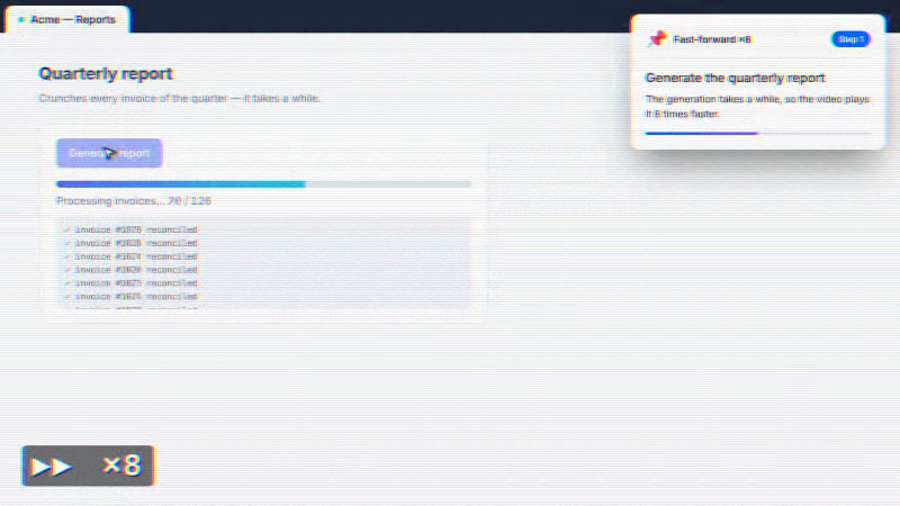
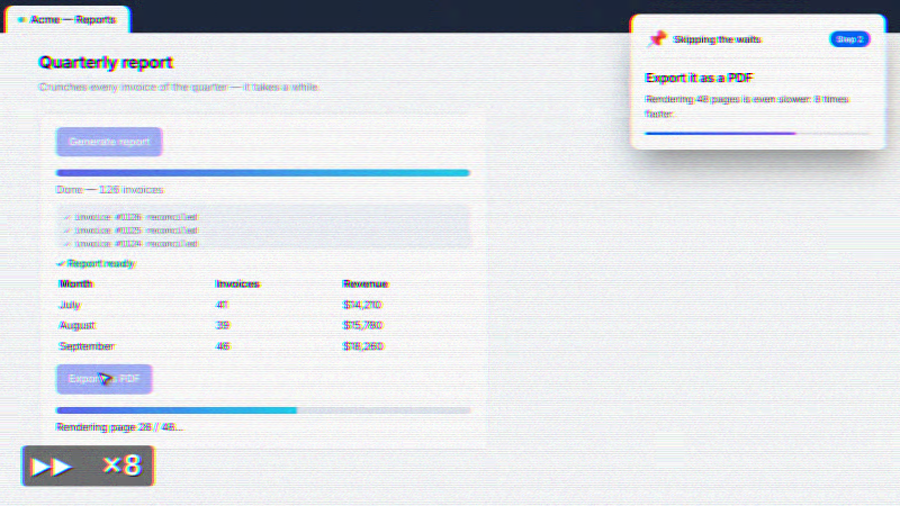
fast-forward: close spans after the action; one demo video, two speeds
A span opened with startFastForward() and left open was closed only at
the next step, so the VHS overlay ended up in the step screenshot. It is
now closed as soon as the step's action returns, which also replaces the
two other closing call sites with one.

The e2e now records a single video with two waits sped up at different
speeds (×4 via fastForward(), ×8 via explicit markers); the teardown
checks the merged length against the prediction.

Claude-Session: https://claude.ai/code/session_012iPBvuSzKHTKc1c8jZjkNr

diff --git a/e2e/96-fast-forward.spec.ts b/e2e/96-fast-forward.spec.ts
@@ -2,20 +2,23 @@ import { test, expect } from '@playwright/test';
 import { Tutorial } from '../src/index.js';
 
 /**
- * fastForward(): a report generation nobody wants to watch in real time is
- * played sped up in the final video, VHS-style. Recorded at two speeds so the
- * final length can be checked against the timeline's prediction —
- * global-teardown.ts compares each merged file's duration with it.
+ * fastForward(): two waits nobody wants to watch in real time — a report
+ * generation and a PDF export — are played sped up in ONE final video, at two
+ * different speeds (×4 then ×8), VHS-style. The final length is checked
+ * against the timeline's prediction: global-teardown.ts compares the merged
+ * file's duration with it.
  * Run with: TUTORIAL_MODE=true npx playwright test e2e/96-fast-forward.spec.ts
  */
 const ORIGIN = 'http://reports.test';
 const GENERATION_MS = 6000;
+const EXPORT_MS = 8000;
+const SPEEDS = [4, 8];
 
 const HTML = `<!doctype html>
 <html><head><meta charset="utf-8"><title>Acme — Reports</title>
 <style>
 	* { box-sizing: border-box; }
-	body { font: 15px/1.5 system-ui, -apple-system, sans-serif; margin: 0; padding: 40px 56px; color: #0f172a; background: #f8fafc; }
+	body { font: 15px/1.5 system-ui, -apple-system, sans-serif; margin: 0; padding: 24px 56px; color: #0f172a; background: #f8fafc; }
 	h1 { font-size: 24px; margin: 0 0 6px; }
 	p.lead { color: #64748b; margin: 0 0 24px; }
 	.card { background: #fff; border: 1px solid #e2e8f0; border-radius: 12px; padding: 20px 24px; max-width: 640px; }
@@ -24,10 +27,11 @@ const HTML = `<!doctype html>
 	.progress { height: 10px; background: #e2e8f0; border-radius: 999px; overflow: hidden; margin: 18px 0 8px; }
 	.bar { height: 100%; width: 0; background: linear-gradient(90deg, #6366f1, #22d3ee); }
 	#status { color: #64748b; font-variant-numeric: tabular-nums; }
-	#log { font: 12px/1.6 ui-monospace, monospace; color: #475569; background: #f1f5f9; border-radius: 8px; padding: 10px 12px; height: 132px; overflow: hidden; margin-top: 10px; }
-	#report { display: none; margin-top: 18px; }
+	#log { font: 12px/1.6 ui-monospace, monospace; color: #475569; background: #f1f5f9; border-radius: 8px; padding: 10px 12px; height: 64px; overflow: hidden; margin-top: 8px; }
+	#report { display: none; margin-top: 10px; }
+	#report p.ok { margin: 0 0 4px; }
 	#report table { width: 100%; border-collapse: collapse; }
-	#report td, #report th { text-align: left; padding: 6px 4px; border-bottom: 1px solid #f1f5f9; }
+	#report td, #report th { text-align: left; padding: 3px 4px; border-bottom: 1px solid #f1f5f9; }
 	.ok { color: #059669; font-weight: 700; }
 </style></head>
 <body>
@@ -46,6 +50,9 @@ const HTML = `<!doctype html>
 				<tr><td>August</td><td>39</td><td>$15,780</td></tr>
 				<tr><td>September</td><td>46</td><td>$18,260</td></tr>
 			</table>
+			<button id="export" style="margin-top:10px">Export as PDF</button>
+			<div class="progress"><div class="bar" id="export-bar"></div></div>
+			<div id="export-status">Not exported</div>
 		</div>
 	</div>
 	<script>
@@ -69,75 +76,103 @@ const HTML = `<!doctype html>
 			};
 			requestAnimationFrame(tick);
 		});
+		document.querySelector('#export').addEventListener('click', (e) => {
+			e.target.disabled = true;
+			const bar = document.querySelector('#export-bar'), status = document.querySelector('#export-status');
+			const start = performance.now();
+			const tick = () => {
+				const p = Math.min(1, (performance.now() - start) / ${EXPORT_MS});
+				bar.style.width = (p * 100).toFixed(1) + '%';
+				status.textContent = 'Rendering page ' + Math.max(1, Math.round(p * 48)) + ' / 48…';
+				if (p < 1) return requestAnimationFrame(tick);
+				status.textContent = '✓ report-q3.pdf ready (48 pages)';
+			};
+			requestAnimationFrame(tick);
+		});
 	</script>
 </body></html>`;
 
 test.describe('fast-forward', () => {
 	test.slow();
 
-	for (const speed of [4, 8]) {
-		test(`fast-forward a slow report generation at ${speed}x`, { tag: '@tutorial' }, async ({ page }) => {
-			const testTitle = `fast-forward a slow report generation at ${speed}x`;
+	test('fast-forward two slow waits at two speeds', { tag: '@tutorial' }, async ({ page }) => {
+		const testTitle = 'fast-forward two slow waits at two speeds';
+		const [generateSpeed, exportSpeed] = SPEEDS;
 
-			await page.route(`${ORIGIN}/**`, (route) => route.fulfill({ contentType: 'text/html', body: HTML }));
+		await page.route(`${ORIGIN}/**`, (route) => route.fulfill({ contentType: 'text/html', body: HTML }));
 
-			const tutorial = new Tutorial(page, {
-				title: `Fast-forward ×${speed}`,
-				testName: `fast-forward-x${speed}`,
-				testTitle,
-				testFile: '96-fast-forward.spec.ts',
-				projectName: 'chromium',
-				lang: 'en',
-				audioBaseUrl: ORIGIN,
-				backgroundMusic: '',
-				scenes: { app: { label: 'Acme — Reports', baseUrl: ORIGIN } },
-				focus: 'app'
-			});
-			const app = tutorial.scene('app');
-
-			await tutorial.stage();
-			await tutorial.goto('app', '/');
-
-			tutorial.context('Skip the boring part', {
-				style: 'goal',
-				text: 'Long waits are fast-forwarded in the final video, like an old VHS tape.'
-			});
-
-			tutorial.step('Generate the quarterly report', async () => {
-				await tutorial.click(app.locator('#generate'));
-				await tutorial.fastForward(speed, async () => {
-					await expect(app.locator('#report')).toBeVisible({ timeout: GENERATION_MS * 3 });
-				});
-			}, { explain: `The generation takes a while, so the video plays it ${speed} times faster.` });
-
-			tutorial.step('The report is ready', async () => {
-				await tutorial.highlight(app.locator('#report table'), 1200);
-				await tutorial.unhighlight(app.locator('#report table'));
-			});
-
-			await tutorial.complete('Only the wait was sped up.');
-
-			await expect(app.locator('#status')).toHaveText('Done — 126 invoices');
-			expect(await page.locator('#tutorial-fast-forward').count()).toBe(0);
-
-			if (!Tutorial.isEnabled) return;
-
-			// --- the final length is predictable from the timeline ---
-			const timeline = tutorial.getTimeline();
-			expect(timeline.fastForward).toHaveLength(1);
-			const [ff] = timeline.fastForward!;
-			expect(ff.speed).toBe(speed);
-			const tapeSpan = ff.endMs - ff.startMs;
-			// Narration is waited for before the tape speeds up, so part of the
-			// generation plays at 1×; the rest is fast-forwarded.
-			expect(tapeSpan).toBeGreaterThan(GENERATION_MS / 3);
-			expect(Math.abs(ff.outputEndMs - ff.outputStartMs - tapeSpan / speed)).toBeLessThanOrEqual(2);
-			expect(Math.abs(timeline.totalDurationMs - (timeline.tapeDurationMs! - tapeSpan * (1 - 1 / speed)))).toBeLessThanOrEqual(2);
-
-			// The step after the span starts where the sped-up span ends in the video.
-			const ready = timeline.steps.find((s) => s.title === 'The report is ready')!;
-			expect(ready.startMs).toBeGreaterThanOrEqual(ff.outputEndMs);
-			expect(ready.startMs - ff.outputEndMs).toBeLessThan(2000);
+		const tutorial = new Tutorial(page, {
+			title: 'Skipping the waits',
+			testName: 'fast-forward-demo',
+			testTitle,
+			testFile: '96-fast-forward.spec.ts',
+			projectName: 'chromium',
+			lang: 'en',
+			audioBaseUrl: ORIGIN,
+			backgroundMusic: '',
+			scenes: { app: { label: 'Acme — Reports', baseUrl: ORIGIN } },
+			focus: 'app'
 		});
-	}
+		const app = tutorial.scene('app');
+
+		await tutorial.stage();
+		await tutorial.goto('app', '/');
+
+		tutorial.context('Skip the boring part', {
+			style: 'goal',
+			text: 'Long waits are fast-forwarded in the final video, like an old VHS tape.'
+		});
+
+		tutorial.step('Generate the quarterly report', async () => {
+			await tutorial.click(app.locator('#generate'));
+			await tutorial.fastForward(generateSpeed, async () => {
+				await expect(app.locator('#report')).toBeVisible({ timeout: GENERATION_MS * 3 });
+			});
+		}, { explain: `The generation takes a while, so the video plays it ${generateSpeed} times faster.` });
+
+		tutorial.step('Export it as a PDF', async () => {
+			await tutorial.click(app.locator('#export'));
+			// Explicit markers this time, at a different speed.
+			await tutorial.startFastForward(exportSpeed);
+			await expect(app.locator('#export-status')).toContainText('ready', { timeout: EXPORT_MS * 3 });
+			await tutorial.endFastForward();
+		}, { explain: `Rendering 48 pages is even slower: ${exportSpeed} times faster.` });
+
+		tutorial.step('The PDF is ready', async () => {
+			await tutorial.highlight(app.locator('#export-status'), 1200);
+			await tutorial.unhighlight(app.locator('#export-status'));
+		});
+
+		await tutorial.complete('Only the waits were sped up.');
+
+		await expect(app.locator('#status')).toHaveText('Done — 126 invoices');
+		await expect(app.locator('#export-status')).toContainText('report-q3.pdf ready');
+		expect(await page.locator('#tutorial-fast-forward').count()).toBe(0);
+
+		if (!Tutorial.isEnabled) return;
+
+		// --- one video, two spans, a predictable final length ---
+		const timeline = tutorial.getTimeline();
+		const spans = timeline.fastForward!;
+		expect(spans.map((s) => s.speed)).toEqual(SPEEDS);
+		expect(spans[1].startMs).toBeGreaterThanOrEqual(spans[0].endMs);
+
+		let saved = 0;
+		for (const span of spans) {
+			const tape = span.endMs - span.startMs;
+			// Narration is waited for before the tape speeds up, so part of each
+			// wait plays at 1×; the rest is fast-forwarded.
+			expect(tape).toBeGreaterThan(GENERATION_MS / 3);
+			expect(Math.abs(span.outputEndMs - span.outputStartMs - tape / span.speed)).toBeLessThanOrEqual(2);
+			saved += tape * (1 - 1 / span.speed);
+		}
+		expect(Math.abs(timeline.totalDurationMs - (timeline.tapeDurationMs! - saved))).toBeLessThanOrEqual(3);
+
+		// Each step after a span starts where that span ends in the video.
+		const exportStep = timeline.steps.find((s) => s.title === 'Export it as a PDF')!;
+		const ready = timeline.steps.find((s) => s.title === 'The PDF is ready')!;
+		expect(exportStep.startMs).toBeGreaterThanOrEqual(spans[0].outputEndMs);
+		expect(ready.startMs).toBeGreaterThanOrEqual(spans[1].outputEndMs);
+		expect(ready.startMs - spans[1].outputEndMs).toBeLessThan(2000);
+	});
 });

diff --git a/dist/Tutorial.js b/dist/Tutorial.js
@@ -710,9 +710,6 @@ export class Tutorial {
         this.overlay.setTotalSteps(this.stepCounter);
         let currentStep = 0;
         for (const item of this.pendingItems) {
-            // A span never outlives its step: the next narration must not play
-            // over sped-up video.
-            await this.endFastForward();
             await this.ensureStyles();
             if (item.type === 'context') {
                 await this.overlay.showContext(item.title, item.text, item.style);
@@ -771,11 +768,13 @@ export class Tutorial {
                     await this.page.waitForTimeout(this.options.stepDelay);
                     await item.action();
                 }
+                // A span never outlives its action: the VHS overlay must not reach
+                // the step screenshot, nor the next narration play over sped-up video.
+                await this.endFastForward();
                 await this.page.waitForTimeout(item.delay ?? 300);
                 await this.captureStepScreenshot(currentStep);
             }
         }
-        await this.endFastForward();
         await this.overlay.showComplete(completionMessage);
         if (this.options.enableVoice) {
             const audioFilename = this.voice.getFilename(completionMessage);

diff --git a/tests/fast-forward.test.ts b/tests/fast-forward.test.ts
@@ -206,6 +206,27 @@ describe('Tutorial.fastForward', () => {
 		}
 	});
 
+	it('closes a span left open as soon as its step action returns, before the screenshot', async () => {
+		process.env.TUTORIAL_MODE = 'true';
+		const { Tutorial } = await import('../src/Tutorial');
+		const page = createMockPage();
+		const tutorial = new Tutorial(page as any, { title: 'T', backgroundMusic: '', enableVoice: false, testName: 'ff-open' });
+		const openAtScreenshot: boolean[] = [];
+		page.screenshot.mockImplementation(async () => {
+			openAtScreenshot.push((tutorial as any).fastForwarding);
+			throw new Error('no screenshots in unit tests');
+		});
+		tutorial.step('Start but never end', async () => {
+			await tutorial.startFastForward(4);
+			await new Promise((r) => setTimeout(r, 20));
+		});
+		tutorial.step('Next', async () => {});
+		await tutorial.complete();
+
+		expect(openAtScreenshot).toEqual([false, false]);
+		expect(tutorial.getTimeline().fastForward).toHaveLength(1);
+	});
+
 	it('warns and does nothing before complete() starts the timeline', async () => {
 		process.env.TUTORIAL_MODE = 'true';
 		const { Tutorial } = await import('../src/Tutorial');

diff --git a/landing/index.html b/landing/index.html
@@ -210,7 +210,7 @@ footer{border-top:1px solid var(--border);margin-top:20px;padding:34px 0;
       <div class="feat"><span class="ico">⏩</span><h3>Fast-forward</h3>
         <p><code>tutorial.fastForward(8, …)</code> plays a slow generation or a repetitive
            chore sped up in the final video — VHS badge, scanlines and tape grain included.</p>
-        <button class="try-btn" data-tutorial="fast-forward-x8" style="margin-top:6px">▶ Watch the ×8 demo</button></div>
+        <button class="try-btn" data-tutorial="fast-forward-demo" style="margin-top:6px">▶ Watch the ×4 / ×8 demo</button></div>
       <div class="feat"><span class="ico">🔒</span><h3>Blurred secrets</h3>
         <p><code>tutorial.typeBlurred()</code> types passwords and API keys into a field that
            stays blurred — the real value never becomes readable in the video.</p></div>

diff --git a/src/Tutorial.ts b/src/Tutorial.ts
@@ -829,9 +829,6 @@ export class Tutorial {
 		let currentStep = 0;
 
 		for (const item of this.pendingItems) {
-			// A span never outlives its step: the next narration must not play
-			// over sped-up video.
-			await this.endFastForward();
 
 			await this.ensureStyles();
 
@@ -894,13 +891,15 @@ export class Tutorial {
 					await this.page.waitForTimeout(this.options.stepDelay);
 					await item.action();
 				}
+				// A span never outlives its action: the VHS overlay must not reach
+				// the step screenshot, nor the next narration play over sped-up video.
+				await this.endFastForward();
 				await this.page.waitForTimeout(item.delay ?? 300);
 
 				await this.captureStepScreenshot(currentStep);
 			}
 		}
 
-		await this.endFastForward();
 		await this.overlay.showComplete(completionMessage);
 
 		if (this.options.enableVoice) {

diff --git a/CLAUDE.md b/CLAUDE.md
@@ -97,7 +97,7 @@ Three entry points: `playwright-director` (main), `playwright-director/reporter`
 - **In-app widget** (`templates/site/public/widget.js` + `src/site/embed.ts`): the built gallery serves `widget.js` at the site root and one payload per tutorial at `embed/<id>.json` (plus `embed/index.json` listing slugs), written by `scaffold()` via `buildEmbedFiles()`. A consuming app loads the script (base URL derived from `document.currentScript.src`) and marks elements `data-tutorial="<slug>"`; a delegated click listener opens a shadow-DOM overlay with the video, description, and step guide (numbers precomputed in the payload — sequential, contexts don't count), linking to the full gallery page. `window.PlaywrightDirector.open/close` is the programmatic API. Theming: payload `accent` (= site `primaryColor`) sets `--playwright-director-accent` inline on the host, overridable from the page via `.playwright-director-widget { --playwright-director-accent: … }`. Fetching `embed/*.json` cross-origin needs CORS on the gallery host (GitHub Pages sends `*`). RTL langs (`ar`, `he`, `fa`, `ur`) flip the panel direction.
 - **`typeBlurred(locator, value, { delay?, blur?, reveal? })`** applies an inline `filter: blur()` to the field *before* the first keystroke and deliberately leaves it on (the finished value must never become readable); `reveal: true` or `unblur()` removes it. Tutorial mode only — plain runs just `fill()`.
 - **Camera zoom** (`zoom(locator, { scale?, duration?, blur?, transition? })`, `src/zoom.ts`): zooms the *top-level page* with a CSS transform on `<html>` (so the whole stage, iframes included, zooms; `boundingBox()` gives main-frame coords for scene elements). Geometry is pure and unit-tested in Node (`zoomScale`, `zoomFrame`, `zoomFrames`): auto scale fits the target to 70% of the viewport capped at 2.5×, never < 1×; the target glides toward the viewport center while the origin is clamped so the scaled page always covers the viewport (no blank canvas). Frames are precomputed (~60fps, ease-in-out) and played by a `requestAnimationFrame` loop in-page; zoom-out plays them backwards. Three in-page details: (1) the tutorial UI (`#tutorial-overlay`, `#tutorial-cursor`, `#tutorial-email-preview`, `#tutorial-debug-clock`) is moved into `#tutorial-zoom-layer`, a `popover="manual"` shown in the **top layer** — top-layer content ignores the `<html>` transform, so banner and cursor stay crisp and unscaled; overlay/cursor injection appends into that layer while it exists, and finite CSS entrance animations are `finish()`ed after each move so the banner doesn't flash; (2) a transformed `<html>` becomes the containing block of `position: fixed` elements (the stage included), so they now scroll with the page, and the zoomed page overflows, so a Playwright action may scroll the top document mid-zoom (seen with `typeSlowly` inside a scene). Each frame therefore uses the *live* scroll: html offset = `base − (scrollX, scrollY)`, every viewport-fixed element gets an inline `translate` of the opposite offset, and a `scroll` listener re-applies the current frame — the picture stays put whatever scrolls. Everything is restored on zoom-out; (3) the blur is a `backdrop-filter` div in the layer whose evenodd `clip-path` hole tracks the target each frame. Robustness: the animation loop is driven by rAF with a 50ms `setTimeout` fallback (a stalled rAF can't hang the step); a loop stops as soon as its zoom is no longer `window.__tutorialZoom`; a zoom-in finding a leftover zoom restores it first; a failed zoom-out warns and calls `__tutorialZoom.restore()` without animation. The cursor is moved with the page each frame and its final position synced back to `TutorialCursor.setPosition()`. No-op outside tutorial mode; not recorded in the timeline.
-- **Fast-forward** (`fastForward(speed, action, { vhs? })`, or `startFastForward(speed)` / `endFastForward()` markers, `src/fast-forward.ts`): spans recorded at real speed are re-timed by ffmpeg in the merge. The timeline stores each span as `{ startMs, endMs }` in *tape* time (what setpts reads after `-ss`) plus `outputStartMs/outputEndMs` and `speed`; everything else is stored in *final-video* time — `addStep` maps its timestamp through `fastForwardOutputMs()` (an open span counts as ending now), `totalDurationMs` is the final length (`tape − Σ L(1 − 1/S)`), `tapeDurationMs` is the recorded one. So voice `adelay`s, `-t`, music `atrim`, transcripts, the reporter's duration patch and the site need no special casing — only `buildMergeCommand` adds `[0:v]setpts='(T−Σ(clip(T,a,b)−a)(1−1/S))/TB',fps=25[,noise,rgbashift with enable=between(t,…) on vhs spans][vout]` and maps `[vout]` instead of `0:v`. One piecewise setpts, no split/concat. `startFastForward()` waits for the playing narration clip (`narrationEndsAt`, set after each `startPlayback`) so speech never overlaps sped-up video; the loop in `complete()` closes any open span before each item and before the completion screen. Only valid while `complete()` runs (`recording` flag) — outside it warns and no-ops; speed must be `> 1` (throws in both modes). The in-page VHS OSD (`#tutorial-fast-forward`: `▶▶ ×N` badge, scanlines, tracking band whose animation is slowed by `speed`) is listed in the zoom layer's `UI_IDS`. The e2e `96-fast-forward.spec.ts` records ×4 and ×8, and `global-teardown.ts` asserts each merged file's duration is within 0.5s of the predicted `totalDurationMs`.
+- **Fast-forward** (`fastForward(speed, action, { vhs? })`, or `startFastForward(speed)` / `endFastForward()` markers, `src/fast-forward.ts`): spans recorded at real speed are re-timed by ffmpeg in the merge. The timeline stores each span as `{ startMs, endMs }` in *tape* time (what setpts reads after `-ss`) plus `outputStartMs/outputEndMs` and `speed`; everything else is stored in *final-video* time — `addStep` maps its timestamp through `fastForwardOutputMs()` (an open span counts as ending now), `totalDurationMs` is the final length (`tape − Σ L(1 − 1/S)`), `tapeDurationMs` is the recorded one. So voice `adelay`s, `-t`, music `atrim`, transcripts, the reporter's duration patch and the site need no special casing — only `buildMergeCommand` adds `[0:v]setpts='(T−Σ(clip(T,a,b)−a)(1−1/S))/TB',fps=25[,noise,rgbashift with enable=between(t,…) on vhs spans][vout]` and maps `[vout]` instead of `0:v`. One piecewise setpts, no split/concat. `startFastForward()` waits for the playing narration clip (`narrationEndsAt`, set after each `startPlayback`) so speech never overlaps sped-up video; `complete()` closes a span left open right after its step's action (one call site, before the step screenshot — so the VHS OSD never reaches screenshots and no later narration overlaps a span). Only valid while `complete()` runs (`recording` flag) — outside it warns and no-ops; speed must be `> 1` (throws in both modes). The in-page VHS OSD (`#tutorial-fast-forward`: `▶▶ ×N` badge, scanlines, tracking band whose animation is slowed by `speed`) is listed in the zoom layer's `UI_IDS`. Any number of spans per video, each with its own speed. The e2e `96-fast-forward.spec.ts` records ONE video with two waits (×4 via `fastForward()`, ×8 via explicit markers), and `global-teardown.ts` asserts the merged file's duration is within 0.5s of the predicted `totalDurationMs`.
 - **Unvoiced steps are recorded in the timeline** with empty `audioFile` and `durationMs: 0` (steps with `skipVoice`, or any step/context/complete when voice is disabled), so their text reaches the site's step guide. Empty `audioFile` marks them: `buildMergeCommand`, `buildTranscriptMarkdown`, `applyCorrections`, and voice-prerender all skip such steps — transcripts stay narration-only and no TTS is synthesized for them.
 
 ## Environment variables

diff --git a/skills/tutorialize/references/api.md b/skills/tutorialize/references/api.md
@@ -536,6 +536,7 @@ tutorial.step('Fill the twelve rows', async () => {
 
 ### Timing
 
+- Any number of spans per video, each with its own speed.
 - A span of `L` ms at speed `S` lasts `L / S` ms on video. Final length = `tape − Σ L × (1 − 1/S)` — predictable to a few ms.
 - Timeline JSON: `totalDurationMs` = final length, `tapeDurationMs` = recorded length, `fastForward[]` = spans (`startMs`/`endMs` tape time, `outputStartMs`/`outputEndMs` video time, `speed`). Step `startMs` values are already video time, so voice clips, transcripts and the gallery need nothing special.
 - `startFastForward()` first **waits for the step's narration clip to finish** — speech is never sped up and never plays over sped-up video. So the step's narration plays at 1×, then the tape speeds up.
@@ -543,7 +544,7 @@ tutorial.step('Fill the twelve rows', async () => {
 ### Rules
 
 - Call it **inside a step's action** — outside `complete()` it warns and does nothing.
-- Keep the span inside its step; the next step (or `complete()`) closes a span left open.
+- Keep the span inside its step; one left open is closed when the step's action returns (before the step screenshot).
 - Say it in the narration ("this takes a moment — let's skip ahead") so the speed-up reads as intentional.
 - Fast-forward the wait, not the payoff: end the span before the result the viewer must see.
 - No-op without `TUTORIAL_MODE` — `fastForward()` just runs the action; a speed `≤ 1` throws in both modes.

diff --git a/README.md b/README.md
@@ -324,12 +324,15 @@ tutorial.step('Import the twelve invoices', async () => {
 });
 ```
 
-![A report generation fast-forwarded at 8×, VHS badge and scanlines on screen](docs/images/fast-forward.png)
+![A PDF export fast-forwarded at 8× (second span of the video), VHS badge and scanlines on screen](docs/images/fast-forward.png)
 
 | Option | Type | Default | Description |
 |---|---|---|---|
 | `speed` (argument) | `number` | — | Playback speed of the span in the final video. Must be `> 1` |
 | `vhs` | `boolean` | `true` | VHS look (badge, scanlines, grain, chroma shift). `false` = a plain speed-up |
+
+A video can have any number of spans, each with its own speed — e.g. a
+report generation at `4` and a PDF export at `8` in the same tutorial.
 
 The final length is predictable: each span of `L` ms recorded at speed `S`
 lasts `L / S` ms in the video, so the video is `tape − Σ L × (1 − 1/S)` long.
@@ -340,7 +343,7 @@ timestamps, transcripts and the gallery all use final-video time.
 Rules:
 
 - Call it **inside a step's action** (it needs the running timeline of
-  `complete()`). A span never outlives its step — the next step closes it.
+  `complete()`). A span never outlives its step — one left open is closed as soon as the step's action returns.
 - Narration is never sped up. If the step's narration is still playing,
   `startFastForward()` waits for the clip to end first, so the voice never
   runs over sped-up video.
